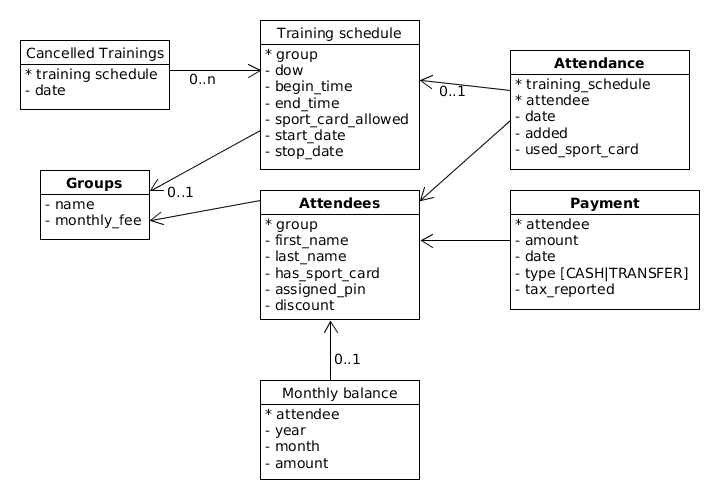
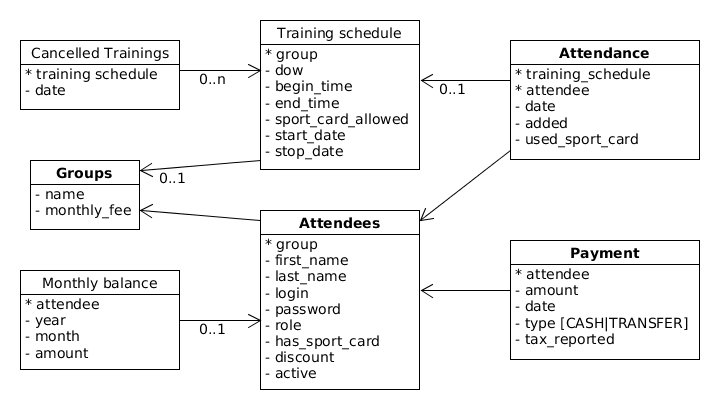
Updated DB layout after implementing session support. Fixed how production/devel specific settings are handled in the app. Refactored rest url schema to make it simpler. Updated front to use it correctly.

diff --git a/src/utils.js b/src/utils.js
@@ -1,14 +1,9 @@
-function fetchFromBackend(url, resultHandler, errHandler) {
-    console.log("Fetching data from:",url);
-    if (!errHandler) {
-        // provide a default error handler
-        errHandler = function(ex) {
-            console.log('Fetching data from:', url, 'failed with', ex);
-        };
-    }
-    window.fetch(url, {credentials: 'same-origin'}).then(function(response) {
+function handleComms(url, data, resultHandler, errHandler) {
+    window.fetch(url, {
+        ...data,
+        credentials: 'same-origin',
+    }).then(function(response) {
         if (response.status !== 200) {
-            // trigger error handler
             throw response;
         }
         return response.json();
@@ -17,107 +12,91 @@ function fetchFromBackend(url, resultHandler, errHandler) {
     .catch(errHandler);
 }
 
+function fetchFromBackend(url, resultHandler, errHandler) {
+    if (!errHandler) {
+        errHandler = function(ex) { console.log('Fetching data from:', url, 'failed with', ex) };
+    }
+    handleComms(url, {}, resultHandler, errHandler);
+}
+
+function sendToBackend(url, data, resultHandler, errHandler) {
+    if (!errHandler) {
+        errHandler = function(ex) { console.log('Sending data to:', url, 'failed with', ex) };
+    }
+    handleComms(url, {
+        method: 'POST',
+        body: data,
+    }, resultHandler, errHandler);
+}
+
 module.exports = {
-    fetchSessionStatus: function(resultHandler, errHandler) {
-        fetchFromBackend('/rest/session/get', resultHandler, errHandler);
-    },
+    // Lists
     fetchAllAttendees: function(resultHandler, errHandler) {
-        fetchFromBackend('/rest/attendees/', resultHandler, errHandler);
+        fetchFromBackend('/rest/list/attendees', resultHandler, errHandler);
     },
     fetchAttendees: function(groupId, resultHandler, errHandler) {
-        fetchFromBackend('/rest/attendees/group/' + groupId, resultHandler, errHandler);
+        fetchFromBackend('/rest/list/attendees/group:' + groupId, resultHandler, errHandler);
     },
     fetchGroups: function(resultHandler, errHandler) {
-        fetchFromBackend('/rest/groups', resultHandler, errHandler);
-    },
-    fetchAttendanceSummary: function(attendeeId, resultHandler, errHandler) {
-        fetchFromBackend('/rest/attendance/attendee/summary/' + attendeeId, resultHandler, errHandler);
-    },
-    fetchAttendanceSplitSummary: function(attendeeId, resultHandler, errHandler) {
-        fetchFromBackend('/rest/attendance/attendee/split-summary/' + attendeeId, resultHandler, errHandler);
-    },
-    fetchGroupAttendanceSummary: function(groupId, resultHandler, errHandler) {
-        fetchFromBackend('/rest/attendance/group/summary/' + groupId, resultHandler, errHandler);
-    },
-    fetchTrainingAttendance: function(date, time, resultHandler, errHandler) {
-        fetchFromBackend('/rest/attendance/' + date + '/' + time, resultHandler, errHandler);
-    },
-    fetchMonthlyAttendance: function(attendeeId, month, resultHandler, errHandler) {
-        fetchFromBackend('/rest/attendance/' + attendeeId + '/' + month, resultHandler, errHandler);
+        fetchFromBackend('/rest/list/groups', resultHandler, errHandler);
     },
     fetchTrainings: function(resultHandler, errHandler) {
-        fetchFromBackend('/rest/trainings', resultHandler, errHandler);
+        fetchFromBackend('/rest/list/trainings', resultHandler, errHandler);
+    },
+    fetchTrainingAttendance: function(date, time, resultHandler, errHandler) {
+        fetchFromBackend('/rest/list/attendance/date:' + date + '/time:' + time, resultHandler, errHandler);
+    },
+    fetchMonthlyAttendance: function(attendeeId, month, resultHandler, errHandler) {
+        fetchFromBackend('/rest/list/attendance/attendee:' + attendeeId + '/month:' + month, resultHandler, errHandler);
     },
     fetchPayments: function(attendeeId, resultHandler, errHandler) {
-        fetchFromBackend('/rest/payments/' + attendeeId, resultHandler, errHandler);
+        fetchFromBackend('/rest/list/payments/attendee:' + attendeeId, resultHandler, errHandler);
     },
-    fetchOutstanding: function(attendeeId, resultHandler, errHandler) {
-        fetchFromBackend('/rest/outstanding/attendee/' + attendeeId, resultHandler, errHandler);
+
+    // Summaries
+    fetchGroupAttendanceSummary: function(groupId, resultHandler, errHandler) {
+        fetchFromBackend('/rest/summarize/attendance/group:' + groupId, resultHandler, errHandler);
+    },
+    fetchAttendanceSummary: function(attendeeId, resultHandler, errHandler) {
+        fetchFromBackend('/rest/summarize/attendance/attendee:' + attendeeId + '/total', resultHandler, errHandler);
+    },
+    fetchAttendanceSplitSummary: function(attendeeId, resultHandler, errHandler) {
+        fetchFromBackend('/rest/summarize/attendance/attendee:' + attendeeId + '/monthly', resultHandler, errHandler);
     },
     fetchGroupOutstanding: function(groupId, resultHandler, errHandler) {
-        fetchFromBackend('/rest/outstanding/group/' + groupId, resultHandler, errHandler);
+        fetchFromBackend('/rest/summarize/payments/group:' + groupId, resultHandler, errHandler);
+    },
+    fetchOutstanding: function(attendeeId, resultHandler, errHandler) {
+        fetchFromBackend('/rest/summarize/payments/attendee:' + attendeeId, resultHandler, errHandler);
     },
     fetchMonthlyFee: function(attendeeId, resultHandler, errHandler) {
-        fetchFromBackend('/rest/fees/' + attendeeId, resultHandler, errHandler);
+        fetchFromBackend('/rest/get/fee/attendee:' + attendeeId, resultHandler, errHandler);
     },
-    sendAttendance: function(params, errorHandler, successHandler) {
+
+    sendAttendance: function(params, successHandler, errorHandler) {
         var form = new FormData();
         form.append('attendance', JSON.stringify(params['attendance']));
         form.append('training_id', params['training'].training_id);
         form.append('training_time', params['training'].name);
-        window.fetch('/rest/attendance', {
-            credentials: 'same-origin',
-            method: 'POST',
-            body: form,
-        }).then(function(result){
-            if (result.status !== 200) {
-                errorHandler(result);
-            }
-            else if (successHandler) {
-                successHandler(result);
-            }
-        }).catch(function(ex) {
-            console.log('Sending data failed with', ex);
-        });
+        sendToBackend('/rest/update/attendance', form, successHandler, errorHandler);
     },
     sendPayment: function(params, successHandler, errorHandler) {
         var form = new FormData();
         form.append('payment', JSON.stringify(params));
-        window.fetch('/rest/payments', {
-            credentials: 'same-origin',
-            method: 'POST',
-            body: form,
-        }).then(function(result){
-            if (result.status !== 200) {
-                errorHandler(result);
-            }
-            else if (successHandler) {
-                successHandler(result);
-            }
-        }).catch(function(ex) {
-            console.log('Sending data failed with', ex);
-        });
+        sendToBackend('/rest/update/payments', form, successHandler, errorHandler);
+    },
+
+    // Session handling
+    fetchSessionStatus: function(resultHandler, errHandler) {
+        fetchFromBackend('/rest/get/session', resultHandler, errHandler);
     },
     login: function(login, pass, successHandler, errorHandler) {
         var form = new FormData();
         form.append('login', login);
         form.append('password', pass);
-        window.fetch('/rest/session/login', {
-            credentials: 'same-origin',
-            method: 'POST',
-            body: form,
-        }).then(function(result){
-            if (result.status !== 200) {
-                errorHandler(result);
-            }
-            else if (successHandler) {
-                return result.json();
-            }
-        }).then(successHandler).catch(function(ex) {
-            console.log('Sending data failed with', ex);
-        });
+        sendToBackend('/rest/login', form, successHandler, errorHandler);
     },
     logout: function(resultHandler, errHandler) {
-        fetchFromBackend('/rest/session/logout', resultHandler, errHandler);
+        fetchFromBackend('/rest/logout', resultHandler, errHandler);
     }
 };

diff --git a/src/views/attendance_input.js b/src/views/attendance_input.js
@@ -188,6 +188,9 @@ class AttendanceInput extends Component {
                 training: this.state.training,
                 attendance: [dataPack],
             },
+            (result) => function(self, result){
+                self.setState({sending: false});
+            }(this, result),
             (ex) => function(ex, self, dataPack) {
                 console.log('Sending attendance data failed with', ex);
                 let unsaved = (self.state.unsavedData || {});
@@ -197,10 +200,7 @@ class AttendanceInput extends Component {
                         [attendeeId]: {$set: dataPack}
                     }),
                 });
-            }(ex, this, dataPack),
-            () => function(self){
-                self.setState({sending: false});
-            }(this));
+            }(ex, this, dataPack));
         }
         else {
             // only store as unsaved data
@@ -220,7 +220,6 @@ class AttendanceInput extends Component {
         if (!unsaved) {
             return;
         }
-        console.log("Got unsaved data", this.state.unsavedData);
         // convert a list
         let attendance = [];
         for (let aid in unsaved) {
@@ -234,15 +233,15 @@ class AttendanceInput extends Component {
             training: this.state.training,
             attendance: attendance,
         },
+        (result) => function(self, result) {
+            // on success, reset sending and unsavedData
+            self.setState({sending: false, unsavedData: null});
+        }(this, result),
         (ex) => function(ex, self) {
             console.log('Sending attendance data failed with', ex);
             self.setState({sending: false});
             alert("Serwer nie odpowiada. Prosimy spróbować później.");
-        }(ex, this),
-        (result) => function(self, result) {
-            // on success, reset sending and unsavedData
-            self.setState({sending: false, unsavedData: null});
-        }(this, result));
+        }(ex, this));
     }
 
     discardAll() {

diff --git a/src/components/session.js b/src/components/session.js
@@ -20,7 +20,6 @@ var Session = ComposedComponent => class extends Component {
     }
 
     fatalErrorHandler(error) {
-        console.log("Debug", error);
         if (error instanceof Response) {
             error = "Nie można nawiązać połączenia z serwerem."
         }

diff --git a/ttapp/urls.py b/ttapp/urls.py
@@ -1,25 +1,39 @@
-from django.conf.urls import url
+from django.conf.urls import include, url
 from . import views
 
 urlpatterns = [
-    url(r'^groups$', views.list_groups, name='list_groups'),
-    url(r'^attendees$', views.list_attendees, name='list_attendees'),
-    url(r'^attendees/group/(?P<group_id>[0-9]+)$', views.list_attendees, name='list_attendees_by_group'),
-    url(r'^trainings$', views.list_trainings, name='list_current_month_trainings'),
-    url(r'^trainings/(?P<year>[0-9]+)/(?P<month>[0-9]+)$', views.list_trainings, name='list_trainings'),
-    url(r'^attendance$', views.update_attendance, name='update_attendance'),
-    url(r'^attendance/(?P<date>[0-9\-]+)/(?P<time>[0-9:]+)$', views.list_attendance, name='list_attendance'),
-    url(r'^attendance/(?P<attendee_id>[0-9]+)/(?P<month>[0-9-]+)$', views.list_attendance, name='list_attendance_monthly'),
-    url(r'^attendance/group/summary/(?P<group_id>[0-9]+)$', views.attendance_summary, name='attendance_summary_6months'),
-    url(r'^attendance/attendee/summary/(?P<attendee_id>[0-9]+)$', views.attendance_summary, name='group_attendance_summary_6months'),
-    url(r'^attendance/attendee/split-summary/(?P<attendee_id>[0-9]+)$', views.attendance_summary, {'split_by_month': True}, name='attendance_summary_6months_split_by_month'),
-    url(r'^attendance/attendee/summary/(?P<attendee_id>[0-9]+)/(?P<year>[0-9]+)/(?P<month>[0-9]+)$', views.attendance_summary, name='attendance_summary_year_month'),
-    url(r'^payments$', views.update_payment, name='update_payments'),
-    url(r'^payments/(?P<attendee_id>[0-9]+)$', views.list_payments, name='list_payments'),
-    url(r'^fees/(?P<attendee_id>[0-9]+)$', views.get_monthly_fee, name='get_monthly_fee'),
-    url(r'^outstanding/attendee/(?P<attendee_id>[0-9]+)$', views.get_current_outstanding, name='get_current_outstanding'),
-    url(r'^outstanding/group/(?P<group_id>[0-9]+)$', views.get_current_outstanding, name='get_current_group_outstanding'),
-    url(r'^session/get$', views.get_session_status, name='get_session_status'),
-    url(r'^session/login$', views.login, name='login'),
-    url(r'^session/logout', views.logout, name='logout')
+    url(r'^list/', include([
+        url(r'^groups$', views.list_groups),
+        url(r'^attendees$', views.list_attendees),
+        url(r'^attendees/group:(?P<group_id>[0-9]+)$', views.list_attendees),
+        url(r'^trainings$', views.list_trainings),
+        url(r'^attendance/', include([
+            url(r'^attendee:(?P<attendee_id>[0-9]+)/month:(?P<month>[0-9-]+)$', views.list_attendance),
+            url(r'^date:(?P<date>[0-9\-]+)/time:(?P<time>[0-9:]+)$', views.list_attendance),
+        ])),
+        url(r'^payments/attendee:(?P<attendee_id>[0-9]+)$', views.list_payments),
+    ])),
+    url(r'^summarize/', include([
+        url(r'^attendance/', include([
+            url(r'^group:(?P<group_id>[0-9]+)$', views.attendance_summary),
+            url(r'^attendee:(?P<attendee_id>[0-9]+)/', include([
+                url(r'^total$', views.attendance_summary),
+                url(r'^monthly$', views.attendance_summary, {'split_by_month': True}),
+            ])),
+        ])),
+        url(r'^payments/', include([
+            url(r'^attendee:(?P<attendee_id>[0-9]+)$', views.get_current_outstanding),
+            url(r'^group:(?P<group_id>[0-9]+)$', views.get_current_outstanding),
+        ])),
+    ])),
+    url(r'^get/', include([
+        url(r'^session$', views.get_session_status),
+        url(r'^fee/attendee:(?P<attendee_id>[0-9]+)$', views.get_monthly_fee),
+    ])),
+    url(r'^update/', include([
+        url(r'^attendance$', views.update_attendance),
+        url(r'^payments', views.update_payment),
+    ])),
+    url(r'^login$', views.login),
+    url(r'^logout', views.logout),
 ]

diff --git a/trattrack/urls.py b/trattrack/urls.py
@@ -1,16 +1,13 @@
 from django.conf.urls import include, url
 from django.contrib import admin
-from .settings import DEBUG
+from django.conf import settings
 
 # devel urls
-urlpatterns = [
-    url(r'^rest/', include('ttapp.urls', namespace='rest')),
-    url(r'^admin/', admin.site.urls),
-]
-
+urlpatterns = []
+if settings.DEBUG:
+    urlpatterns.append( url(r'^rest/', include('ttapp.urls', namespace='rest')) )
+    urlpatterns.append( url(r'^admin/', admin.site.urls) )
 # production urls are little bit different when run from apache
-if not DEBUG:
-    urlpatterns = [
-        url(r'^manage/', admin.site.urls),
-        url(r'^', include('ttapp.urls', namespace='rest')),
-    ]
+else:
+    urlpatterns.append( url(r'^manage/', admin.site.urls) )
+    urlpatterns.append( url(r'^', include('ttapp.urls', namespace='rest')) )

diff --git a/ttapp/views.py b/ttapp/views.py
@@ -160,14 +160,15 @@ def get_monthly_fee(request, attendee_id):
 
 
 def get_session_status(request):
-    status = { "logged in": False }
+    out = None
 
     try:
-        status = Auth(request=request).as_response()
+        auth = Auth(request=request)
+        out = auth.set_cookie( JsonResponse( auth.as_response() ) )
     except (Auth.BadCookie, Auth.BadCredentials):
-        pass
+        out = JsonResponse({ "logged in": False })
 
-    return JsonResponse(status)
+    return out
 
 # TODO: fix
 @csrf_exempt

diff --git a/ttapp/models.py b/ttapp/models.py
@@ -2,7 +2,7 @@ import calendar, hashlib, shortuuid
 from datetime import timedelta
 from django.utils import timezone
 from django.db import models
-from trattrack import settings
+from django.conf import settings
 
 
 class Groups(models.Model):

diff --git a/trattrack/settings_prod.py b/trattrack/settings_prod.py
@@ -1,7 +1,4 @@
-try:
-    from .settings import *
-except ImportError:
-    pass
+from .settings import *
 
 # Production only settings
 DEBUG = False
